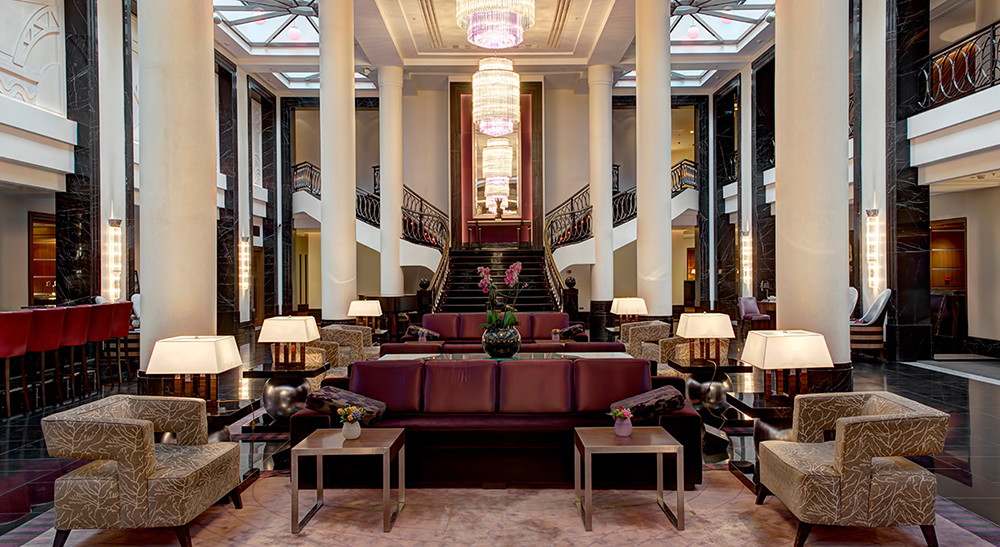
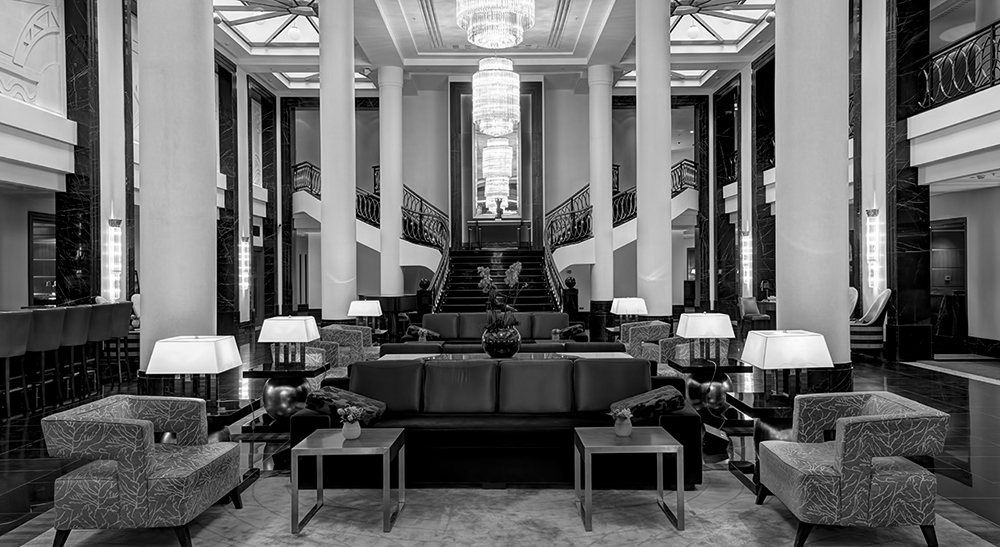
2-nd branch with bw photos

diff --git a/index.html b/index.html
@@ -15,7 +15,7 @@
 	<div class="header-row">
 	  <div class="h-col-1"><a href="#"><img class="logo" src="i/logo.svg" alt="Международная конференция PRO БИТУМ И ПБВ" /></a></div>
 	  <div class="h-col-2 title">PRO БИТУМ И ПБВ. САНКТ-ПЕТЕРБУРГ <span class="orange">4-5 АПРЕЛЯ 2019</span></div>
-	  <div class="h-col-3 reg"><a class="btn" href="#">Регистрация</a></div>
+	  <div class="h-col-3 reg"><!--a class="btn" href="#">Регистрация</a--></div>
 	</div>
   </header>
   <div class="slider">
@@ -29,15 +29,14 @@
       <div class="m-col-2 hex_1">
         <div class="title">О КОНФЕРЕНЦИИ</div>
         <p>За семь лет конференция стала единой отраслевой площадкой и крупнейшим межотраслевым мероприятием по вопросам производства и применения битумных и битумопроизводных материалов в российском дорожном строительстве, а также в аэропортовой инфраструктуре.</p>
-		<p>Участниками сессий и дискуссий ежегодно становятся свыше 400 представителей федеральных органов исполнительной власти, ведущих подрядных и проектных организаций, производителей дорожных битумов и полимерно-битумных вяжущих (ПБВ).</p>
-		<p>Обмен мнениями по актуальным вопросам и обсуждение тем развития автомобильных дорог в кругу профессионалов и всех заинтересованных сторон способствуют выработке эффективных решений для строительства в России качественных и долговечных автомобильных дорог мирового уровня.</p>
+        <p>Обмен мнениями по актуальным вопросам и обсуждение тем развития автомобильных дорог в кругу профессионалов и всех заинтересованных сторон способствуют выработке эффективных решений для строительства в России качественных и долговечных автомобильных дорог мирового уровня.</p>
       </div>
 
 	  <div class="m-col-3 hex_2">
 		<div class="title">ДАТА И МЕСТО ПРОВЕДЕНИЯ</div>
         <p><strong>Отель «Коринтия Санкт-Петербург», 4-5 апреля</strong></p>
-		<p>Расположенный в самом сердце города на Невском проспекте, отель «Коринтия Санкт-Петербург» находится в легкой доступности от главных культурных достопримечательностей и процветающих деловых районов города. Близость от основных железнодорожных вокзалов, морского пассажирского порта и аэропорта, делает отель «Коринтия Санкт-Петербург» идеальным местом проживания для бизнесменов и туристов.</p>
-        <a href="#" class="btn m2">Регистрация</a>
+		    <p>Расположенный в самом сердце города на Невском проспекте, отель «Коринтия Санкт-Петербург» находится в легкой доступности от главных культурных достопримечательностей и процветающих деловых районов города. Близость от основных железнодорожных вокзалов, морского пассажирского порта и аэропорта, делает отель «Коринтия Санкт-Петербург» идеальным местом проживания для бизнесменов и туристов.</p>
+        <!--a href="#" class="btn m2">Регистрация</a-->
 	  </div>
 	  <div class="m-col-4 img_2"></div>
 
@@ -45,14 +44,6 @@
 	  <div class="m-col-6 hex_3">
 	    <div class="title">ИНФОРМАЦИЯ О ПЛОЩАДКЕ, УСЛОВИЯХ ПРОЖИВАНИЯ</div>
         <p>Для удобства участников до 29 марта (включительно) в отеле «Коринтия Санкт-Петербург» на даты 4-5 апреля зарезервированы номера. С учетом скидки, предоставляемой отелем участникам в дни проведения конференции, стоимость одноместного номера «Стандарт» с завтраком составит 7600 руб. (вкл. НДС) за 1 сутки проживания.</p>
-		<p>Начиная с 29 марта бронирование будет осуществляться также с учетом скидки, но на номера разных категорий, которые будут доступны в отеле в тот момент.</p>
-		<p>Форма отеля для бронирования номера можно скачать здесь. Ее необходимо заполнить и направить на электронный адрес: <a href="mailto:eventteam.stpetersburg@corinthia.com">eventteam.stpetersburg@corinthia.com</a></p>
-		<p>В случае вопросов, пожалуйста, обращайтесь к менеджеру отеля «Коринтия Санкт-Петербург» - Валерии:</p>
-		<p>Valeria Kontsevich<br />
-		   Mobile: <a href="tel:+79219522573">+7 (921) 952-25-73</a>,<br />
-		   Direct line: <a href="tel:+78123802001">+7 (812) 380-20-01</a>, ext.271<br />
-		   Hotel: <a href="tel:+78123802001">+7 (812) 380-20-01</a><br />
-		   Email: <a href="mailto:valeria.kontsevich@corinthia.com">valeria.kontsevich@corinthia.com</a></p>
         <a href="http://www.corinthia.com/ru/hotels/stpetersburg/" target="_blank" class="btn m3">www.corinthia.com</a>
 	  </div>
 

diff --git a/css/style.css b/css/style.css
@@ -51,8 +51,8 @@ p {line-height: 1.6em;}
   display: grid;
   -ms-grid-columns: 1fr 1fr;
   grid-template-columns: 1fr 1fr;
-  -ms-grid-rows: 1fr 1fr auto 1fr auto;
-  grid-template-rows: 1fr 1fr auto 1fr auto;
+  -ms-grid-rows: 1fr 1fr 1fr 1fr auto;
+  grid-template-rows: 1fr 1fr 1fr 1fr auto;
   max-width: 1200px;
   margin: 0 auto;
 }
@@ -145,11 +145,11 @@ img.logo {max-height: 90px;}
 
 .title {font-size:24px; line-height: 1.6em; text-transform: uppercase; color: #ee6322; padding-bottom: 10px;}
 
-.img_1 {background: url('../i/bitum_conf_1.jpg') no-repeat; background-size: cover;}
-.img_2 {background: url('../i/bitum_conf_2.jpg') no-repeat; background-size: cover;}
-.img_3 {background: url('../i/bitum_conf_3.jpg') no-repeat; background-size: cover;}
-.img_4 {background: url('../i/bitum_conf_4.jpg') no-repeat; background-size: cover;}
-.img_5 {background: url('../i/bitum_conf_5.jpg') no-repeat; background-size: cover;}
+.img_1 {background: url('../i/bitum_conf_1.jpg') center no-repeat; background-size: cover;}
+.img_2 {background: url('../i/bitum_conf_2.jpg') center no-repeat; background-size: cover;}
+.img_3 {background: url('../i/bitum_conf_3.jpg') center no-repeat; background-size: cover;}
+.img_4 {background: url('../i/bitum_conf_4.jpg') center no-repeat; background-size: cover;}
+.img_5 {background: url('../i/bitum_conf_5.jpg') center no-repeat; background-size: cover;}
 
 .hex_1 {background: url('../i/hex_1.svg') 96% 96% no-repeat #f2f2f2; background-size: 130px;}
 .hex_2 {background: url('../i/hex_2.svg') 4% 96% no-repeat #f2f2f2; background-size: 120px;}
